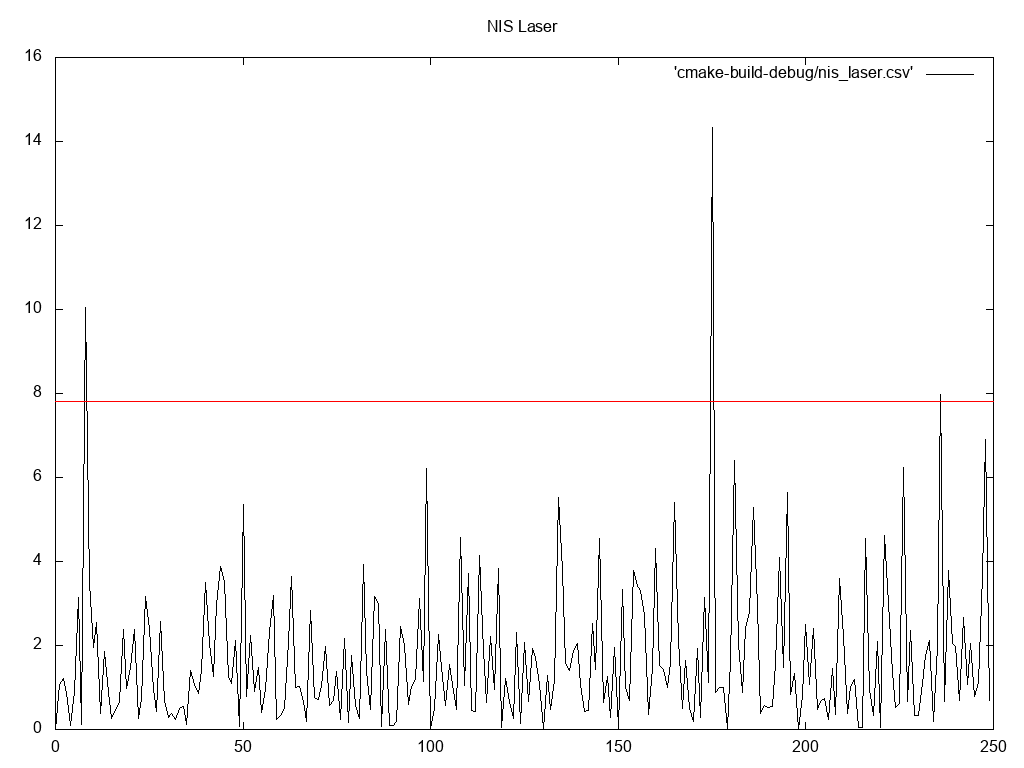
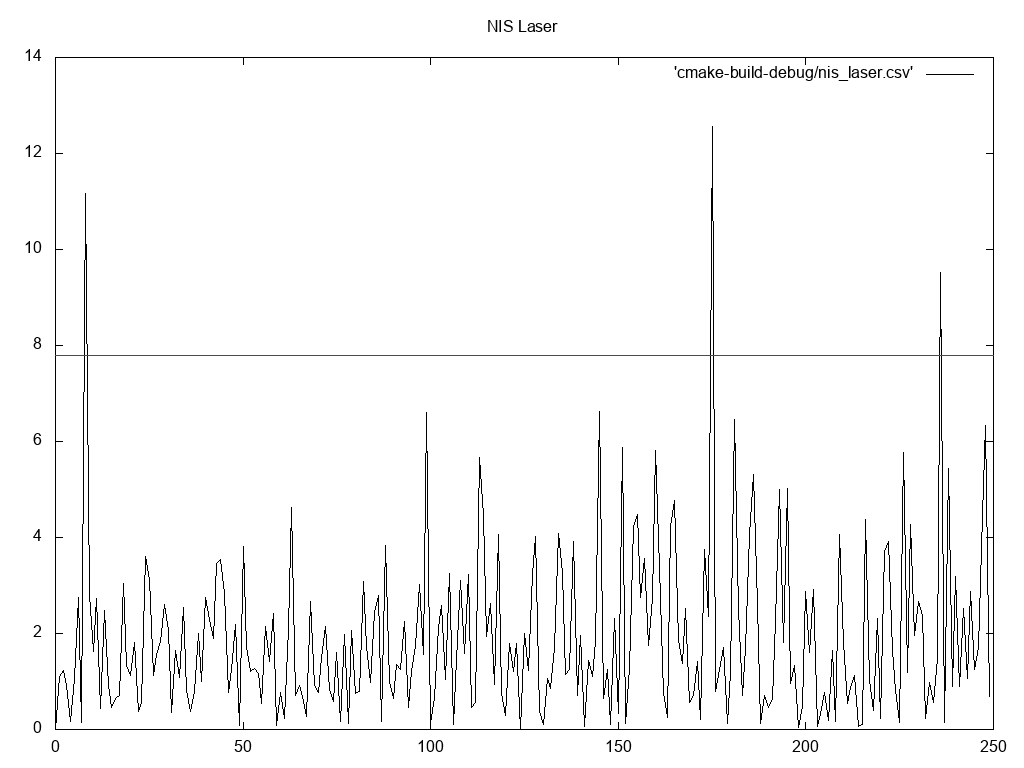
adjust std_a and std_yawdd based on NIS
- NIS still looks good, also RMSE gets unacceptably high when values get
  too low (more smoothing, but less accuracy)

diff --git a/src/ukf.cpp b/src/ukf.cpp
@@ -29,11 +29,10 @@ UKF::UKF() {
     P_ = MatrixXd::Zero(n_x_, n_x_);
 
     // Process noise standard deviation longitudinal acceleration in m/s^2
-    std_a_ = 3;
+    std_a_ = 1;
 
     // Process noise standard deviation yaw acceleration in rad/s^2
-    // TODO adjust using NIS
-    std_yawdd_ = 1;
+    std_yawdd_ = 0.2;
 
     // Laser measurement noise standard deviation position1 in m
     std_laspx_ = 0.15;
